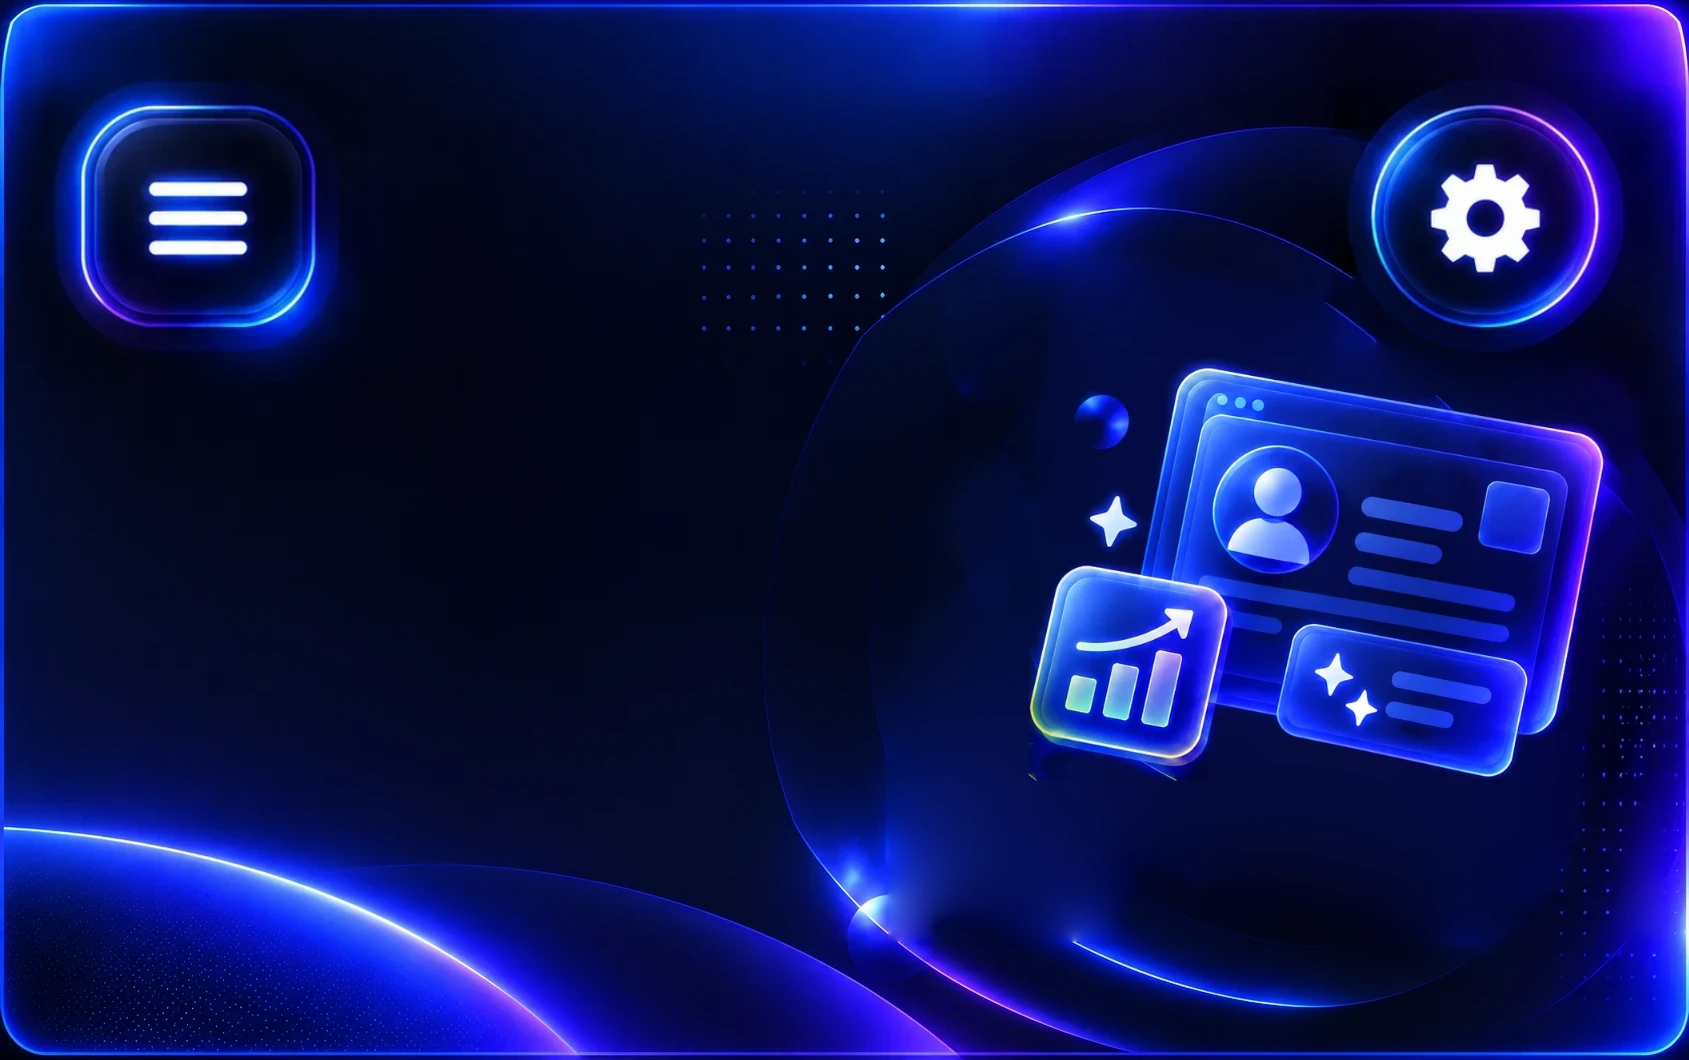
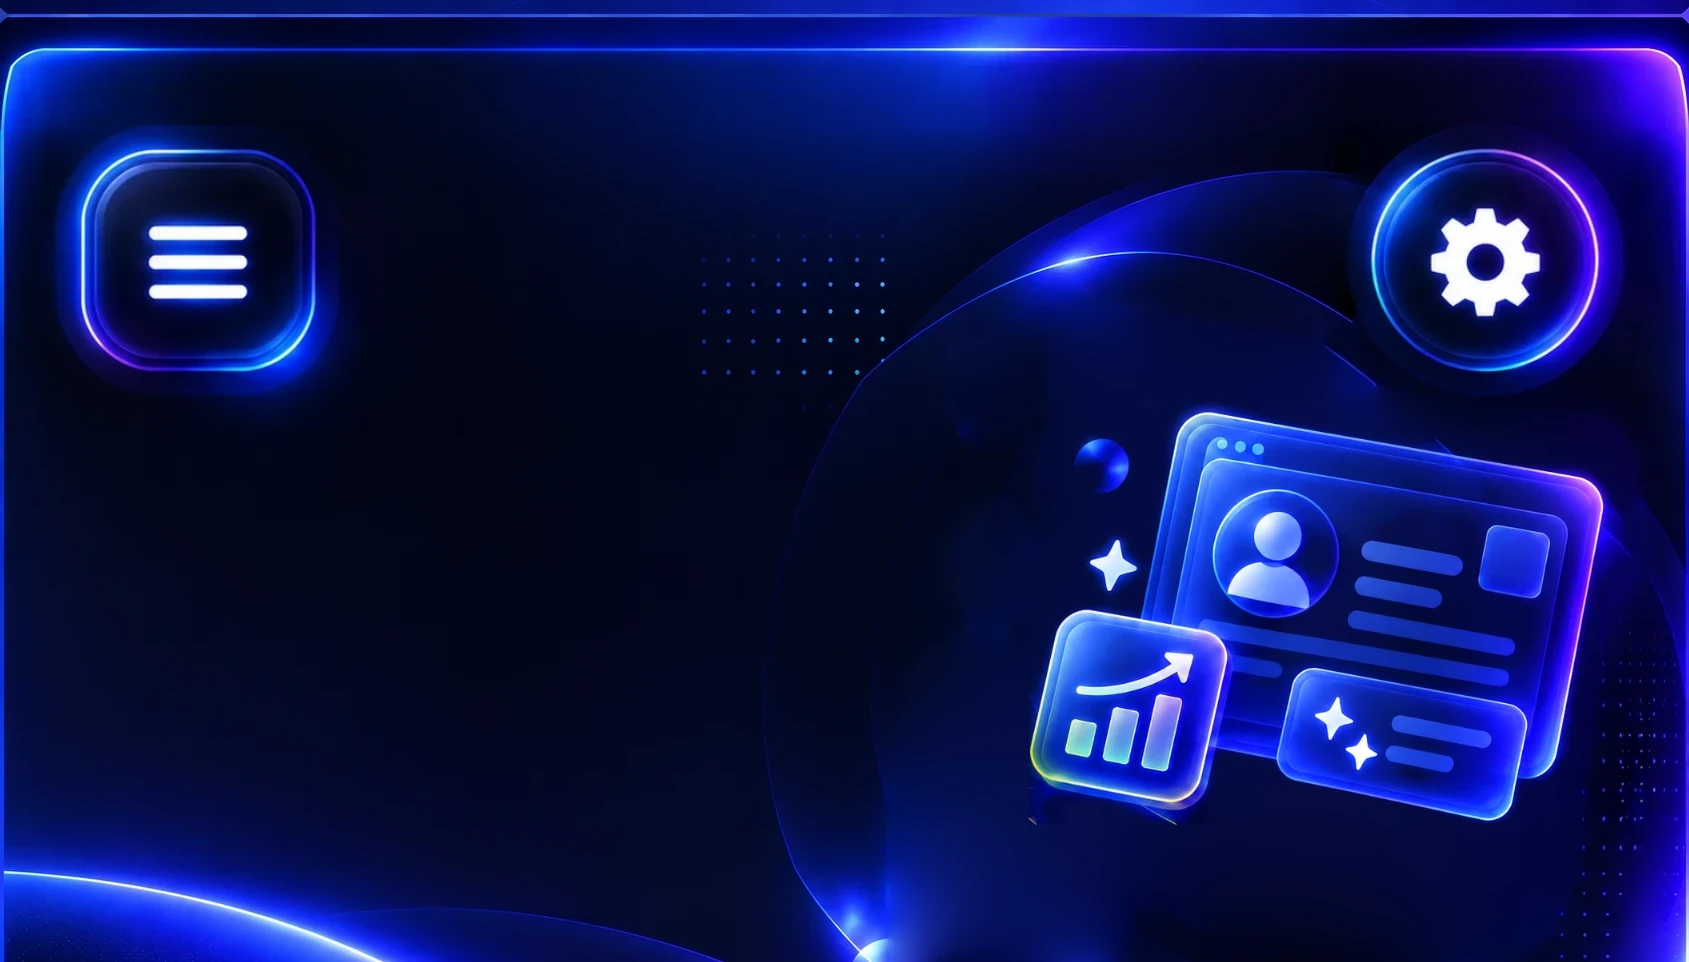
fix optimizer hero framing

diff --git a/src/linkedin/panel/panelStyles.ts b/src/linkedin/panel/panelStyles.ts
@@ -1246,8 +1246,8 @@ export function getPanelStyles(widthPx: number): string {
     left: 19.9%;
   }
   .lw-art-hero--optimizer .lw-art-hero__hotspot {
-    top: 10%;
-    height: 20.8%;
+    top: 15.6%;
+    height: 22.9%;
   }
   .lw-art-hero--optimizer .lw-art-hero__hotspot--menu {
     left: 4.8%;
@@ -1263,7 +1263,7 @@ export function getPanelStyles(widthPx: number): string {
      Analyzer's scale. The artwork's illustration sits right of 61%, where the one-line title ends. */
   .lw-art-hero--optimizer .lw-art-hero__copy {
     left: 5.5%;
-    top: 38.5%;
+    top: 47%;
     max-width: none;
   }
   .lw-art-hero--optimizer .lw-art-hero__title {

diff --git a/src/linkedin/panel/MainMenu.tsx b/src/linkedin/panel/MainMenu.tsx
@@ -169,7 +169,7 @@ export function OptimizerHero() {
       name="optimizer"
       path="content/assets/profile-optimizer-hero.webp"
       width={1689}
-      height={1060}
+      height={962}
       alt=""
       hotspots={[
         { label: "Open LinkWise menu", modifier: "menu", onClick: () => panelToolPreference.set("menu") },
